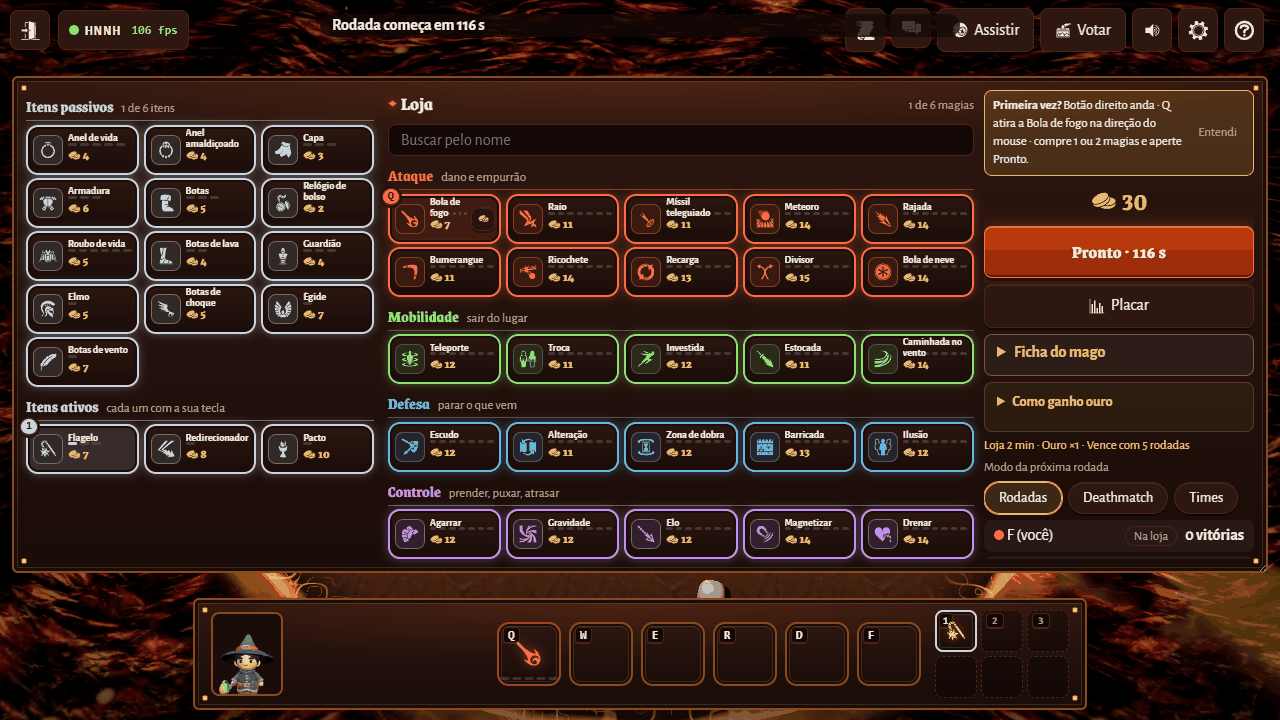
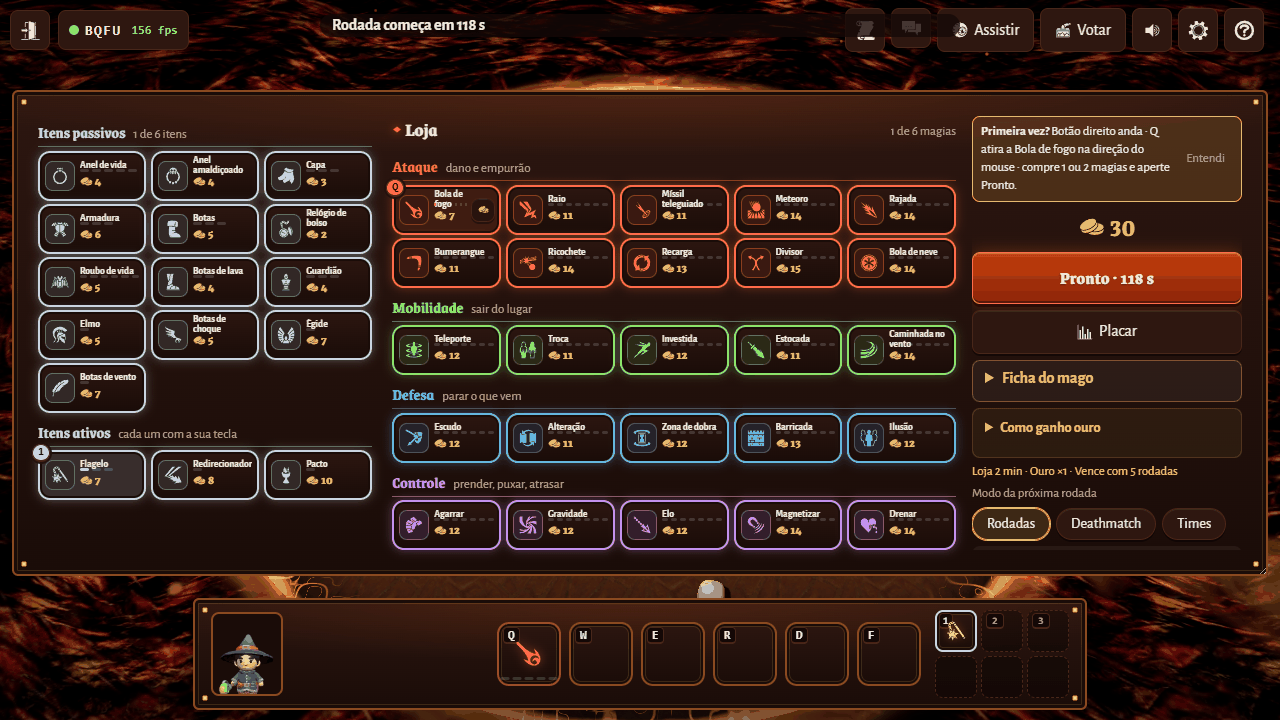
style: loja sem busca, com bordas maiores e centralizada entre as barras
- busca pelo nome tirada da loja (pedido do Fernando); searchFilter segue só na Biblioteca
- padding da loja de 12 para 24 px e 16 px entre as colunas
- loja centralizada no espaço livre entre a barra de cima e a de baixo
- nome do cartão em .6rem (estreito) e .8rem (largo) para "Redirecionador" seguir cabendo

diff --git a/src/client/style.css b/src/client/style.css
@@ -1041,8 +1041,6 @@ body.replaying .peek-shop { display: none; }
 .tile-acts { display: flex; flex-wrap: wrap; gap: 3px; justify-content: center; }
 .tile-acts:empty { display: none; }
 .tile-acts .buy { display: none; } /* só o cartão compacto tem o botão de comprar; nos outros o próprio cartão compra */
-/* a busca na coluna da loja não cresce na altura (flex-basis de 220 px valia como altura) */
-.shop-main > .lib-search { flex: none; }
 .reorder-slot { touch-action: none; cursor: grab; user-select: none; }
 .dragging-slot { cursor: grabbing; outline: 2px solid var(--gold); opacity: .65; }
 /* arraste de vaga: o ícone vai junto com o mouse e a vaga de destino acende; 40 px (ícone de 26 px): menor que a vaga (42 a 64 px), para a borda acesa da vaga de destino aparecer em volta */
@@ -1107,7 +1105,6 @@ div.shop-tile { border-color: var(--line); box-sizing: border-box; }
 .shop-main { container: shop-content / inline-size; }
 .shop-side { min-width: 0; overflow-wrap: anywhere; }
 .shop-main > .shop-head { flex-wrap: wrap; }
-.shop-main > .lib-search { width: 100%; min-width: 0; }
 .shop .shop-main .shop-item { min-width: 0; }
 @container shop-window (max-width: 1050px) {
   .shop { grid-template-columns: minmax(0, 1fr); }
@@ -1124,9 +1121,12 @@ div.shop-tile { border-color: var(--line); box-sizing: border-box; }
 @media (min-width: 1100px) and (min-height: 600px) {
   /* a loja termina acima da barra de baixo, onde se troca a ordem das magias: --bar-space = barra (112 px) + 10 px de margem + 8 de folga */
   .hud { --bar-space: 130px; }
-  .center:has(.compact-shop) { top: calc(76px + var(--safe-t)); transform: translateX(-50%); max-height: calc(100% - 76px - var(--bar-space) - var(--safe-t) - var(--safe-b)); }
+  /* centrada no espaço livre entre a barra de cima e a de baixo (Fernando, 21/10): topo e fundo presos, altura do conteúdo e margem automática */
+  .center:has(.compact-shop), .peek-shop:has(.compact-shop) { top: calc(76px + var(--safe-t)); bottom: calc(var(--bar-space) + var(--safe-b)); height: fit-content; margin-block: auto;
+    max-height: calc(100% - 76px - var(--bar-space) - var(--safe-t) - var(--safe-b)); }
+  .center:has(.compact-shop) { transform: translateX(-50%); }
   /* --gap-v: espaço vertical entre fileiras, grupos e blocos; cresce com a altura da tela (3 px em 720, 26 px em 1080) para a loja usar a altura livre (Fernando, 21/10) */
-  .compact-shop { padding: 12px; gap: 10px; --acts-w: 24px; --gap-v: clamp(3px, calc((100dvh - 680px) / 15), 26px); --tile-h: clamp(50px, calc((100dvh - 470px - 9 * var(--gap-v)) / 5), 84px); }
+  .compact-shop { padding: 24px; gap: 16px; --acts-w: 24px; --gap-v: clamp(3px, calc((100dvh - 680px) / 15), 26px); --tile-h: clamp(50px, calc((100dvh - 470px - 9 * var(--gap-v)) / 5), 84px); }
   .compact-shop .shop-main, .compact-shop .shop-items { gap: var(--gap-v); }
   .compact-shop .shop-group { gap: calc(var(--gap-v) / 2 + 2px); }
   .compact-shop .shop-head { gap: 4px 8px; }
@@ -1135,7 +1135,6 @@ div.shop-tile { border-color: var(--line); box-sizing: border-box; }
   .shop.compact-shop .shop-main > .shop-head { flex-wrap: nowrap; }
   .shop.compact-shop .shop-main > .shop-head h2 { white-space: nowrap; }
   .shop.compact-shop .shop-main > .shop-head small { min-width: 0; overflow: hidden; text-overflow: ellipsis; white-space: nowrap; } /* numa linha: a quebra dava 33 px de rolagem na gaveta em 1280 */
-  .compact-shop .lib-search { min-height: 32px; padding-block: 5px; }
   .shop.compact-shop .shop-grid { gap: var(--gap-v) 5px; }
   .shop.compact-shop .shop-main .shop-grid { grid-template-columns: repeat(5, minmax(0, 1fr)); }
   /* um cartão só para itens e magias (Fernando, 21/10): o ícone num quadro da cor do grupo à esquerda; nome, nível e preço empilhados à direita.
@@ -1152,7 +1151,7 @@ div.shop-tile { border-color: var(--line); box-sizing: border-box; }
     box-shadow: inset 0 0 0 1px color-mix(in srgb, var(--g, var(--ember)) 40%, transparent); }
   /* medidas do cartão sem variável no :root: --acts-w 24 px = botão de 20 px e 4 px de folga; o quadro do ícone para em 52 px (o cartão
      de 74 px menos o padding) e cai para 30 px no estreito (com a coluna de 18 px); 160 px e 170 px são a largura do cartão em 1600×900 e 1920×1080.
-     O :root não tem escala de fonte: .64rem (estreito), .78rem e .85rem (largo) são os tamanhos em que o nome mais longo cabe em cada cartão */
+     O :root não tem escala de fonte: .6rem (estreito), .78rem e .8rem (largo) são os tamanhos em que o nome mais longo cabe em cada cartão */
   /* cartão estreito (até 1600 px): quadro menor e nome na fonte do texto, para "Redirecionador" caber sem partir a palavra; o Vender fica só com a moeda */
   .compact-shop .shop-item { container: tile / inline-size; }
   @container tile (max-width: 160px) {
@@ -1160,7 +1159,7 @@ div.shop-tile { border-color: var(--line); box-sizing: border-box; }
     .compact-shop .shop-tile { --well: 30px; column-gap: 5px; padding-inline: 5px; }
     /* sem largura para a coluna inteira: o carrinho fica escondido (o clique no cartão compra) e a coluna só aparece com vender ou desfazer */
     .compact-shop .shop-item:has(.sell, .undo) .shop-tile { padding-right: calc(8px + var(--acts-w)); }
-    .compact-shop .shop-tile .tile-name { font-family: inherit; font-weight: 600; font-size: .64rem; }
+    .compact-shop .shop-tile .tile-name { font-family: inherit; font-weight: 600; font-size: .6rem; }
     .compact-shop .shop-tile .tile-price .lvl { display: none; } /* o nível já está nos pips; "Nv 2" não cabia ao lado dos botões */
   }
   .compact-shop .tile-acts { top: 6px; bottom: 6px; right: 6px; width: var(--acts-w); flex-direction: column; flex-wrap: nowrap; justify-content: center; }
@@ -1171,7 +1170,7 @@ div.shop-tile { border-color: var(--line); box-sizing: border-box; }
   .compact-shop .tile-acts button.sell .sell-txt { display: none; }
   /* cartão largo (tela grande): nome e preço maiores para o conteúdo não ficar miúdo no meio do cartão */
   @container tile (min-width: 170px) {
-    .compact-shop .shop-tile .tile-name { font-size: .85rem; }
+    .compact-shop .shop-tile .tile-name { font-size: .8rem; }
     .compact-shop .shop-tile .tile-price { font-size: .9rem; }
   }
   .compact-shop .shop-items { max-height: none; overflow: visible; }
@@ -1179,7 +1178,7 @@ div.shop-tile { border-color: var(--line); box-sizing: border-box; }
   .compact-shop .shop-side { gap: 6px; height: 0; min-height: 100%; overflow-y: auto; scrollbar-width: thin; }
   .compact-shop .first-tip { padding: 6px 8px; gap: 6px; font-size: .8rem; }
   /* No PC a compra durante a rodada usa a mesma largura da inicial, inclusive para quem caiu (#121) */
-  .peek-shop:has(.compact-shop) { top: calc(76px + var(--safe-t)); left: 50%; right: auto; transform: translateX(-50%); width: min(1860px, calc(100% - 24px)); max-height: calc(100% - 76px - var(--bar-space) - var(--safe-t) - var(--safe-b)); }
+  .peek-shop:has(.compact-shop) { left: 50%; right: auto; transform: translateX(-50%); width: min(1860px, calc(100% - 24px)); }
   .peek-shop.drawer .compact-shop { grid-template-columns: minmax(0, 3fr) minmax(0, 5fr) 270px; }
   .peek-shop.drawer .compact-shop .shop-items { order: initial; }
   .peek-shop.drawer .compact-shop .shop-side { display: flex; }

diff --git a/src/client/ui.ts b/src/client/ui.ts
@@ -26,7 +26,7 @@ import { LOCALE, arenaName, itemName, itemText, spellName, t } from './i18n.ts';
 const TITLE = 'Warlock';
 // busca pelo nome sem acento nem maiúscula (loja e biblioteca)
 export const norm = (x: string) => x.normalize('NFD').replace(/\p{M}/gu, '').toLowerCase();
-// busca pelo nome (loja e biblioteca): esconde os itens cujo data-name (já com norm) não tem o texto e os grupos que ficaram vazios;
+// busca pelo nome (biblioteca): esconde os itens cujo data-name (já com norm) não tem o texto e os grupos que ficaram vazios;
 // off: grupo escondido de todo (filtro por grupo da biblioteca)
 export function searchFilter(groups: Iterable<HTMLElement>, item: string, query: string, off?: (g: HTMLElement) => boolean) {
   const q = norm(query.trim());
@@ -1263,16 +1263,6 @@ export function createRoomUi(root: HTMLElement, code: string, act: RoomActions) 
   // estado da loja que sobrevive ao redesenho (a sala manda o estado a cada compra de qualquer jogador)
   let goldOpen = false;
   let sheetOpen = false; // Ficha começa recolhida para a loja caber sem rolagem no PC; abrir/fechar sobrevive ao redesenho
-  let shopQuery = ''; // busca da loja: fica ao redesenhar (a sala manda o estado a cada segundo)
-  const shopSearch = () => el('input', { type: 'search', class: 'lib-search', 'data-key': 'shop-search', value: shopQuery, placeholder: t('Buscar pelo nome', 'Search by name'), 'aria-label': t('Buscar na loja pelo nome', 'Search the shop by name'),
-    oninput: (e: Event) => {
-      shopQuery = (e.target as HTMLInputElement).value;
-      filterShop((e.target as HTMLElement).closest('.shop')!);
-    } });
-  function filterShop(box: HTMLElement) {
-    searchFilter(box.querySelectorAll<HTMLElement>('.shop-group'), '.shop-item', shopQuery);
-    return box;
-  }
   let readyBtn: HTMLElement | null = null;
   // cartão de primeira vez na loja da rodada 0: some ao fechar ou ao apertar Pronto, e fica guardado no navegador
   const FIRST = 'warlock:firstshop';
@@ -1323,7 +1313,7 @@ export function createRoomUi(root: HTMLElement, code: string, act: RoomActions) 
       const face = [el('span', { class: 'ico' }, icon(o.ico)), el('span', { class: 'tile-name' }, o.name), el('span', { class: 'pips' }, ...pipsOf(o.lvl, o.max)),
         el('span', { class: 'tile-price' + (o.blocked ? ' off' : can ? ' can' : ' cant') }, ...(o.blocked ? [o.blocked] : [o.lvl ? el('span', { class: 'lvl' }, t(`Nv ${o.lvl + 1} `, `Lv ${o.lvl + 1} `)) : null, icon(UI_ICON.gold), o.price === 0 ? t(' grátis', ' free') : ` ${o.price}`]))];
       // clique compra; clique direito também (como no Dota); só ver: o ícone não compra
-      return withTip(el('div', { class: 'shop-item' + (o.key.startsWith('item') ? ' is-item' : '') + (o.lvl ? ' owned' : '') + (can && !peek ? ' can' : '') + (o.blocked && !o.lvl ? ' locked' : ''), 'data-name': norm(o.name),
+      return withTip(el('div', { class: 'shop-item' + (o.key.startsWith('item') ? ' is-item' : '') + (o.lvl ? ' owned' : '') + (can && !peek ? ' can' : '') + (o.blocked && !o.lvl ? ' locked' : ''),
         oncontextmenu: (e: Event) => {
           e.preventDefault();
           if (can && !peek) o.buy();
@@ -1366,10 +1356,9 @@ export function createRoomUi(root: HTMLElement, code: string, act: RoomActions) 
     const items = () => el('div', { class: 'shop-items' },
       group(t('Itens passivos', 'Passive items'), itemCount, ITEM_IDS.filter((i): boolean => !isActive(i)).map(itemOffer)),
       group(t('Itens ativos', 'Active items'), t('cada um com a sua tecla', 'each with its own key'), ACTIVE_ITEMS.map(itemOffer)));
-    if (look) return filterShop(el('div', { class: 'card shop compact-shop' }, items(), el('div', { class: 'shop-main' },
+    if (look) return (el('div', { class: 'card shop compact-shop' }, items(), el('div', { class: 'shop-main' },
       el('div', { class: 'shop-head' }, el('h2', { class: 'title' }, r.sandbox ? t('Loja · sandbox', 'Shop · sandbox') : deadShop ? t('Loja · você caiu: monte a build', 'Shop · you fell: build your kit') : t('Loja · só para ver', 'Shop · view only')), el('small', {}, t(`${spellCount(mine.spells)} de ${MAX_SPELLS} magias · ${r.sandbox ? 'ouro sem fim: compre e venda, vale na hora' : deadShop ? 'compre e venda já; o ouro da rodada entra quando ela acabar' : 'a compra abre entre as rodadas'}`, `${spellCount(mine.spells)} of ${MAX_SPELLS} spells · ${r.sandbox ? 'endless gold: buy and sell, it applies right away' : deadShop ? 'buy and sell now; the round gold arrives when it ends' : 'buying opens between rounds'}`)),
         iconButton('✕', t('Fechar a loja', 'Close the shop'), () => togglePeek(false), { class: 'icon peek-close', title: t(`Fechar (${uiLabel('shop')} ou Esc)`, `Close (${uiLabel('shop')} or Esc)`) })),
-      shopSearch(),
       ...grid),
       el('aside', { class: 'shop-side' }, el('span', { class: 'gold big' }, gold(mine.gold)), sheetBox())));
     readyBtn = el('button', { type: 'button', class: 'primary big', 'data-key': 'ready', disabled: mine.ready, onclick: () => {
@@ -1377,9 +1366,8 @@ export function createRoomUi(root: HTMLElement, code: string, act: RoomActions) 
       act.ready();
     } }, readyText(mine.ready));
     // compras no meio; ouro, Pronto e placar à direita (pedido do Fernando: loja mais larga; o personagem saiu para o menu principal e as Configurações)
-    return filterShop(el('div', { class: 'card shop compact-shop' }, items(), el('div', { class: 'shop-main' },
+    return (el('div', { class: 'card shop compact-shop' }, items(), el('div', { class: 'shop-main' },
       el('div', { class: 'shop-head' }, el('h2', { class: 'title' }, r.round === 0 ? t('Loja', 'Shop') : t(`Loja · depois da rodada ${r.round}`, `Shop · after round ${r.round}`)), el('small', {}, t(`${spellCount(mine.spells)} de ${MAX_SPELLS} magias`, `${spellCount(mine.spells)} of ${MAX_SPELLS} spells`))),
-      shopSearch(),
       ...grid,
       ),
       el('aside', { class: 'shop-side' },

diff --git a/src/client/CLAUDE.md b/src/client/CLAUDE.md
@@ -8,7 +8,7 @@ Vale junto com o `CLAUDE.md` da raiz.
 - Reuse `choice(...)` (fileira de botões com `aria-pressed`), `tabs(...)` (`role=tab`) e `withTip(elemento, () => html)` (dica no hover e no foco).
 - **Botão só de ícone (✕, ⋯, ‹ ›, engrenagem) só com `iconButton(filho, nome, onclick, props?)`** (`icons.ts`): o nome vira `title` e `aria-label`; `props` sobrescreve (`class: 'icon wide-only'`, `title` com a tecla, `aria-expanded`, `hidden`). Visual diferente do ✕ só pela classe: `kick` (pequeno e vermelho) e `info-close` (canto do ⓘ).
 - **Diálogo por cima da tela só com `dialog(cls, título, corpo, { ico, onKey, onClose })`** (`ui.ts`, issue #110): fundo `<cls>-overlay` (camada e celular no CSS), cabeçalho `.dialog-head` com título e ✕; ✕, clique fora, Esc e o B do controle fecham. Segura todas as teclas na captura (nada chega ao jogo); `onKey` vê cada tecla antes e, com `preventDefault`, o Esc não fecha. Devolve `{ overlay, close }`; foco inicial no ✕ (quem chama pode mudar). Padronização da interface com funções no DOM puro, uma por PR (decisão de 20/10, issue #91).
-- **Busca pelo nome só com `searchFilter(grupos, seletor do item, texto, off?)`** (`ui.ts`): esconde os itens cujo `data-name` (gravado com `norm`) não tem o texto e os grupos vazios; `off` esconde grupos inteiros (filtro). Usada na loja e na Biblioteca.
+- **Busca pelo nome só com `searchFilter(grupos, seletor do item, texto, off?)`** (`ui.ts`): esconde os itens cujo `data-name` (gravado com `norm`) não tem o texto e os grupos vazios; `off` esconde grupos inteiros (filtro). Usada na Biblioteca (a loja ficou sem busca, pedido do Fernando de 21/10).
 - **Arrastar para trocar de vaga só com `draggableSlot(nó, índice, ocupada)`** (`ui.ts`): até 6 px conta como clique; passou disso, um `.drag-ghost` com o ícone da vaga segue o mouse e a vaga embaixo dele ganha `.drop-target`; ao soltar, `moveLoadout` troca as posições. Usada na barra de baixo, a única que troca a ordem das magias: no PC ela fica à vista também na loja (`SHOP_BAR`, o mesmo corte do `.compact-shop`), e a loja termina acima dela (`--bar-space`); outra lista que se reordena por arraste reusa as duas classes em vez de criar outro visual (PR #197).
 - **Preferência do jogador só por `store`** (`store.ts`): `store.get`/`set`/`json` já têm try/catch e caem para memória. Nunca `localStorage` direto. Chaves com prefixo `warlock:`.
 - **Menus enxutos** (decisão do Fernando): antes de pôr opção nova numa tela, pergunte se ela precisa existir.
